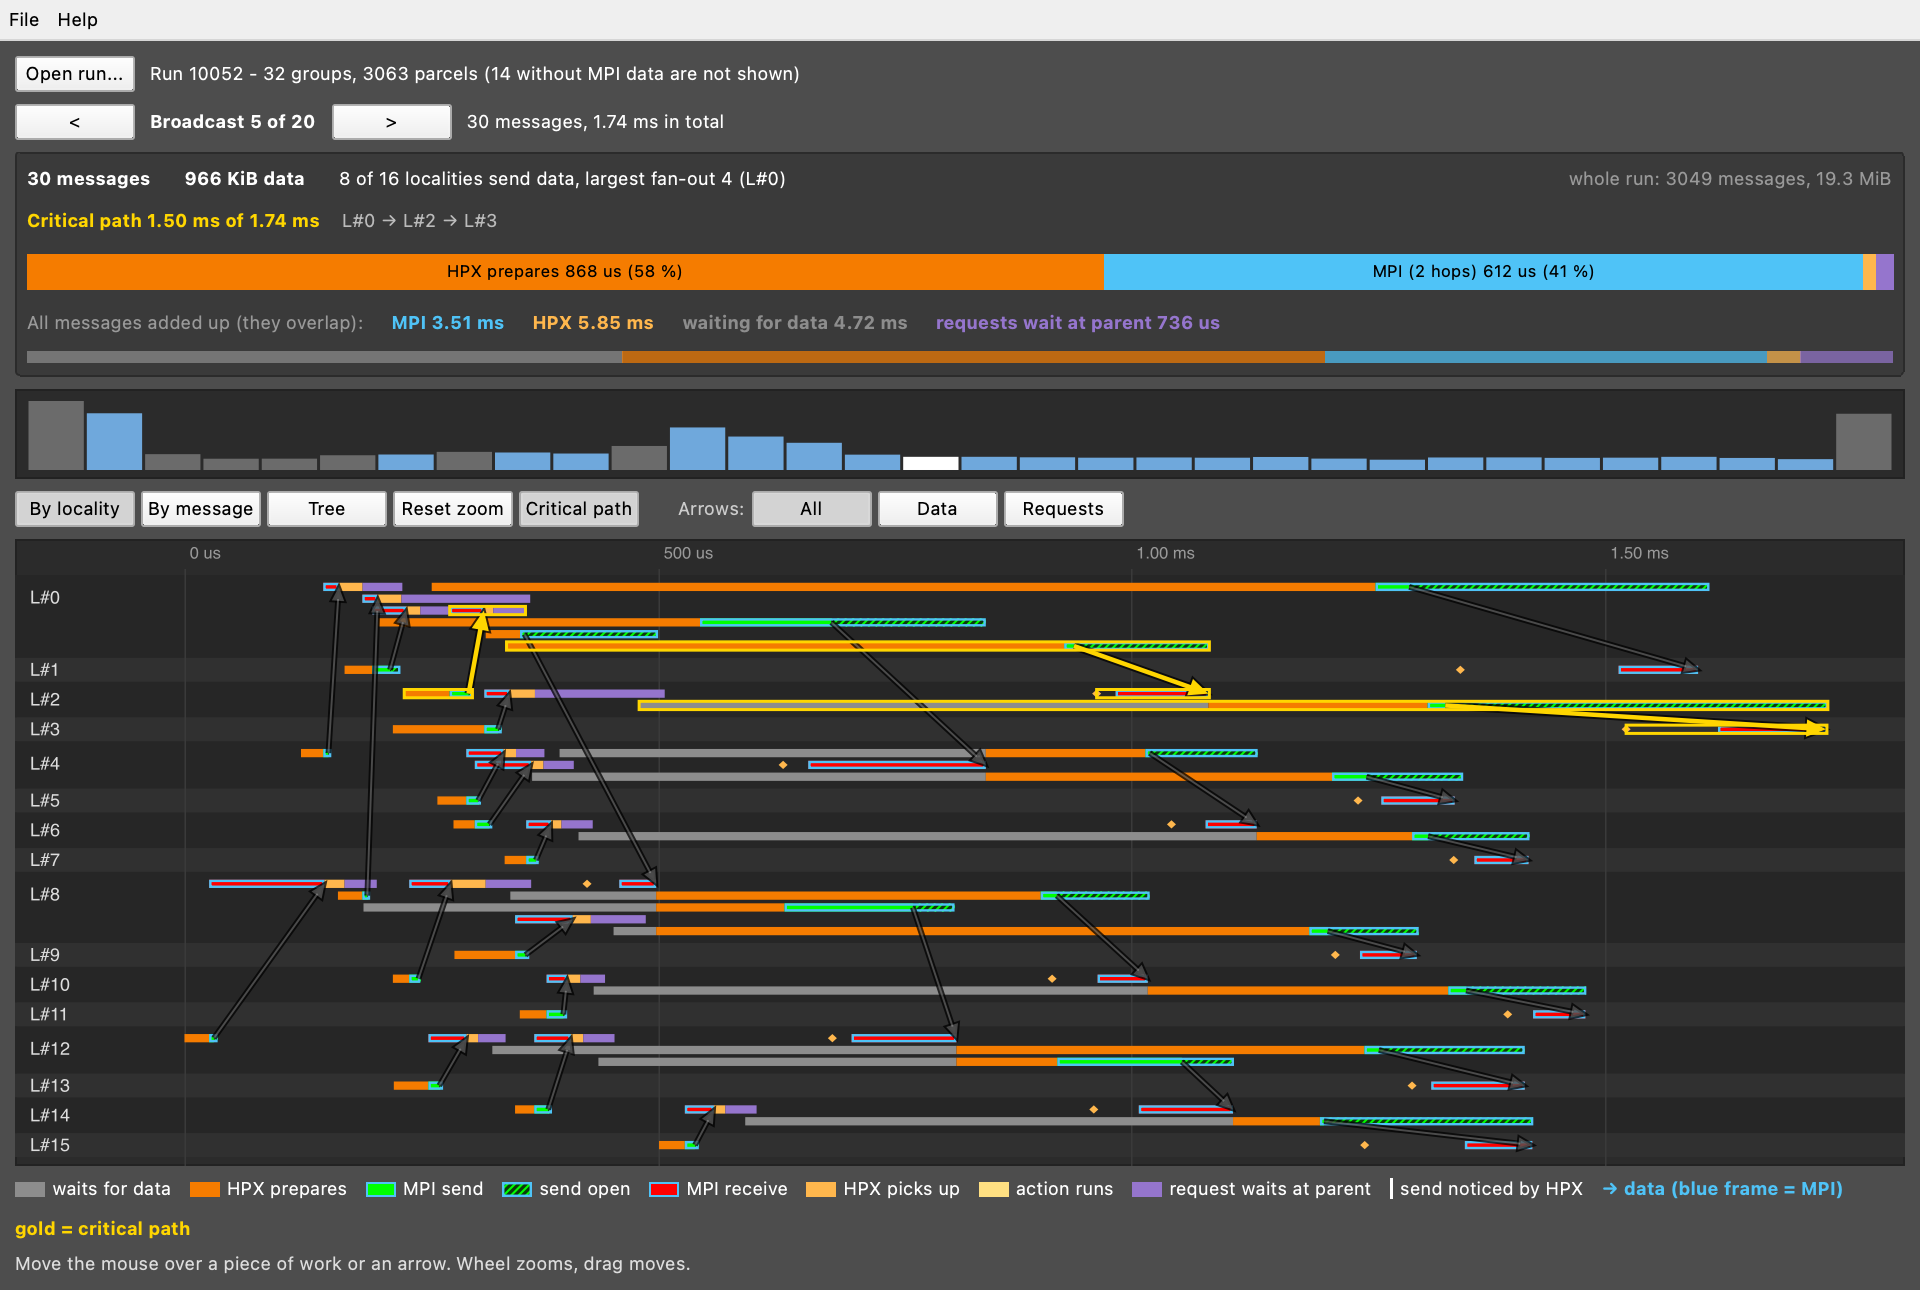
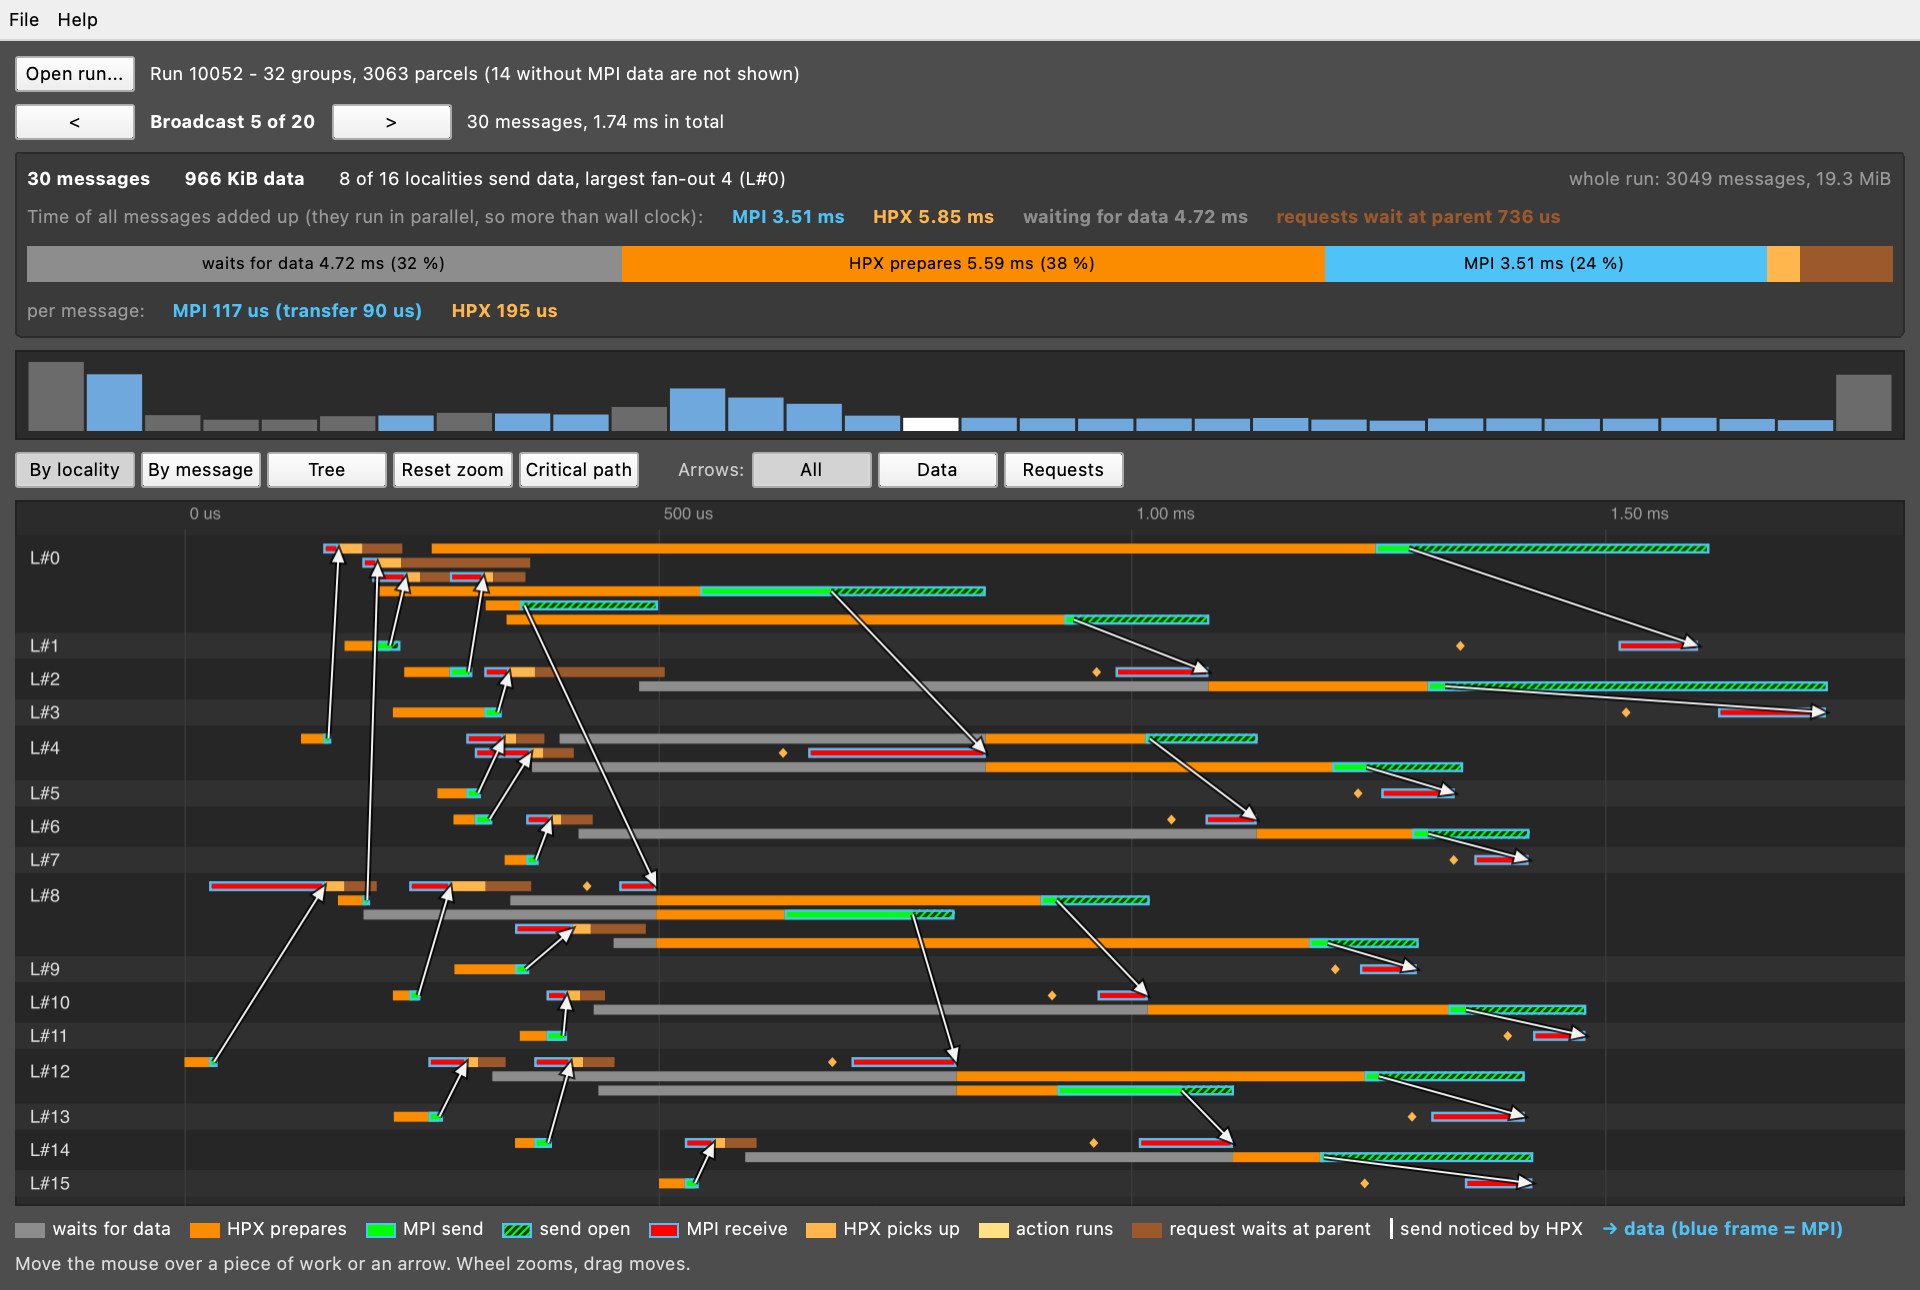
Critical path only on click; colours: orange/yellow for HPX, warm brown for a request waiting at its parent
The summary shows the time of all messages added up by default; the Critical path
button switches it to the critical path (wall clock). New screenshots.

Changed region(s): [[0.0, 0.155, 1.0, 0.9612], [0.0, 0.4961, 0.0312, 0.6512], [0.0938, 0.7752, 0.125, 0.8372]]

diff --git a/gui/qml/Main.qml b/gui/qml/Main.qml
@@ -6,10 +6,10 @@ import QtQuick.Dialogs
 // EduHPX: one HPX run (parcel events of HPX + MPI messages, a run file made by eduhpx-merge), shown group by
 // group (one broadcast, one barrier, one burst of other traffic, ...) in three views.
 //   By locality: one lane per locality. In its lane a locality shows what it does:
-//       dark orange  HPX prepares the send     (parcel created -> start of the MPI_Isend call)
+//       orange       HPX prepares the send     (parcel created -> start of the MPI_Isend call)
 //       blue         MPI send                  (the MPI_Isend call; light blue: HPX sees the send request still open)
 //       blue         MPI receive               (until the receive is complete)
-//       orange       HPX picks it up           (MPI has the message, HPX has not yet)
+//       light orange HPX picks it up           (MPI has the message, HPX has not yet)
 //       yellow       the action runs
 //     A blue arrow connects the MPI send of the sender with the MPI receive on the receiver.
 //   By message: one row per message with the same colours.
@@ -44,12 +44,12 @@ ApplicationWindow {
         }
     }
 
-    readonly property color preColor: "#f57c00"
+    readonly property color preColor: "#fb8c00"          // HPX prepares: orange
     readonly property color waitColor: "#8d8d8d"           // waiting for the data of the parent (a dependency, not work)
     readonly property color mpiColor: "#4fc3f7"
     readonly property color mpiSendColor: "#00ff00"        // MPI send: the green of the 3D view for 100 % sending, RGB(0, 255, 0)
     readonly property color mpiRecvColor: "#ff0000"        // MPI receive: the red of the 3D view for 100 % receiving, RGB(255, 0, 0)
-    readonly property color recvColor: "#ffb74d"
+    readonly property color recvColor: "#ffb74d"         // HPX picks up: light orange
     readonly property color actionColor: "#ffe082"
 
     property var groups: []         // { kind, k, total, rows, start, end }
@@ -93,7 +93,7 @@ ApplicationWindow {
     property int treeDepth: 0
     property double treeStart: 0
     property int treeHover: -1
-    property bool criticalOn: true       // highlight the critical path in all views and show it in the summary
+    property bool criticalOn: false      // highlight the critical path in all views and show it in the summary (button)
     property var pathSegs: []            // { kind: prepare | mpi | pick | action, a, b }
     property real pathLength: 0
     property real pathStart: 0           // start and end of the path, after the first event of the group
@@ -103,7 +103,7 @@ ApplicationWindow {
     property real pathPick: 0
     property real pathAction: 0
     property real pathParent: 0          // the request waits at the parent until the reply is created
-    readonly property color parentColor: "#9575cd"
+    readonly property color parentColor: "#9c5a2c"       // a request waits at its parent: warm brown
     property string pathChain: ""
 
     // "the send request is still open": dark green with diagonal stripes in the green of the send, so that it cannot be
@@ -695,7 +695,7 @@ ApplicationWindow {
                     spacing: 14
                     visible: hpxWindow.showPath
                     Label { color: "#ffd600"; font.bold: true
-                            text: "Critical path " + hpxWindow.fmtUs(hpxWindow.pathLength) + " of " + hpxWindow.fmtUs(hpxWindow.groupSpan) }
+                            text: "Critical path (wall clock) " + hpxWindow.fmtUs(hpxWindow.pathLength) + " of " + hpxWindow.fmtUs(hpxWindow.groupSpan) }
                     Label { color: "#bbbbbb"; Layout.fillWidth: true; elide: Text.ElideRight; text: hpxWindow.pathChain }
                 }
                 Item {
@@ -739,7 +739,7 @@ ApplicationWindow {
                 RowLayout {
                     Layout.fillWidth: true
                     spacing: 18
-                    Label { color: "#999999"; text: "All messages added up (they overlap):" }
+                    Label { color: "#999999"; text: "Time of all messages added up (they run in parallel, so more than wall clock):" }
                     Label { color: hpxWindow.mpiColor; font.bold: true; text: "MPI " + hpxWindow.fmtUs(hpxWindow.sumMpi) }
                     Label { color: hpxWindow.recvColor; font.bold: true; text: "HPX " + hpxWindow.fmtUs(hpxWindow.sumHpx) }
                     Label { color: hpxWindow.waitColor; font.bold: true; visible: hpxWindow.sumWait > 0
@@ -1156,7 +1156,7 @@ ApplicationWindow {
                         const e = hpxWindow.treeEdges[i], g = edgeGeometry(e);
                         const hot = i === hpxWindow.treeHover;
                         const onPath = crit && e.data.crit;
-                        const dataColor = hot ? "#ff4081" : (onPath ? "#ffd600" : (crit ? "rgba(255,255,255,0.3)" : "#ffffff"));
+                        const dataColor = hot ? "#ff4081" : (onPath ? "#ffd600" : (crit ? "rgba(255,183,77,0.3)" : "#ffb74d"));
                         const reqColor = hot ? "#ff4081" : (onPath ? "#ffd600" : (crit ? "rgba(255,183,77,0.3)" : "#ffb74d"));
                         arrowHead(ctx, g.dx0, g.dy0, g.dx1, g.dy1, 2 + Math.min(Math.sqrt(e.data.size) / 150, 2) + (onPath || hot ? 1 : 0), dataColor);
                         if (e.req)

diff --git a/gui/src/main.cpp b/gui/src/main.cpp
@@ -85,8 +85,8 @@ int main(int argc, char *argv[])
     }
     if (rendering) {
         auto *window = qobject_cast<QQuickWindow *>(root);
-        if (qEnvironmentVariable("EDUHPX_CRITICAL") == QLatin1String("0"))
-            root->setProperty("criticalOn", false);   // preview of the summary without the critical path
+        if (qEnvironmentVariable("EDUHPX_CRITICAL") == QLatin1String("1"))
+            root->setProperty("criticalOn", true);    // preview with the critical path button on
         // the views are named after the positional arguments that follow the file
         QStringList specs = args.mid(1);
         wait(500);

diff --git a/gui/README.md b/gui/README.md
@@ -46,13 +46,14 @@ Hover a piece of work or an arrow for its numbers (size, time in MPI, what HPX d
 | | |
 |---|---|
 | grey | waits for data (the parent has not set it yet) |
-| dark orange | HPX prepares the parcel |
+| orange | HPX prepares the parcel |
 | green | MPI send call |
 | green striped | the send request is still open: MPI is still working on the message |
 | red | MPI receive |
 | blue frame | time inside MPI |
 | light orange | HPX picks up the received message |
 | yellow | the action runs |
+| brown | a request waits at its parent until the reply is created |
 | white tick | HPX notices that the message was sent |
 
 Green and red are the same colours as in the EduMPI 3D view.
